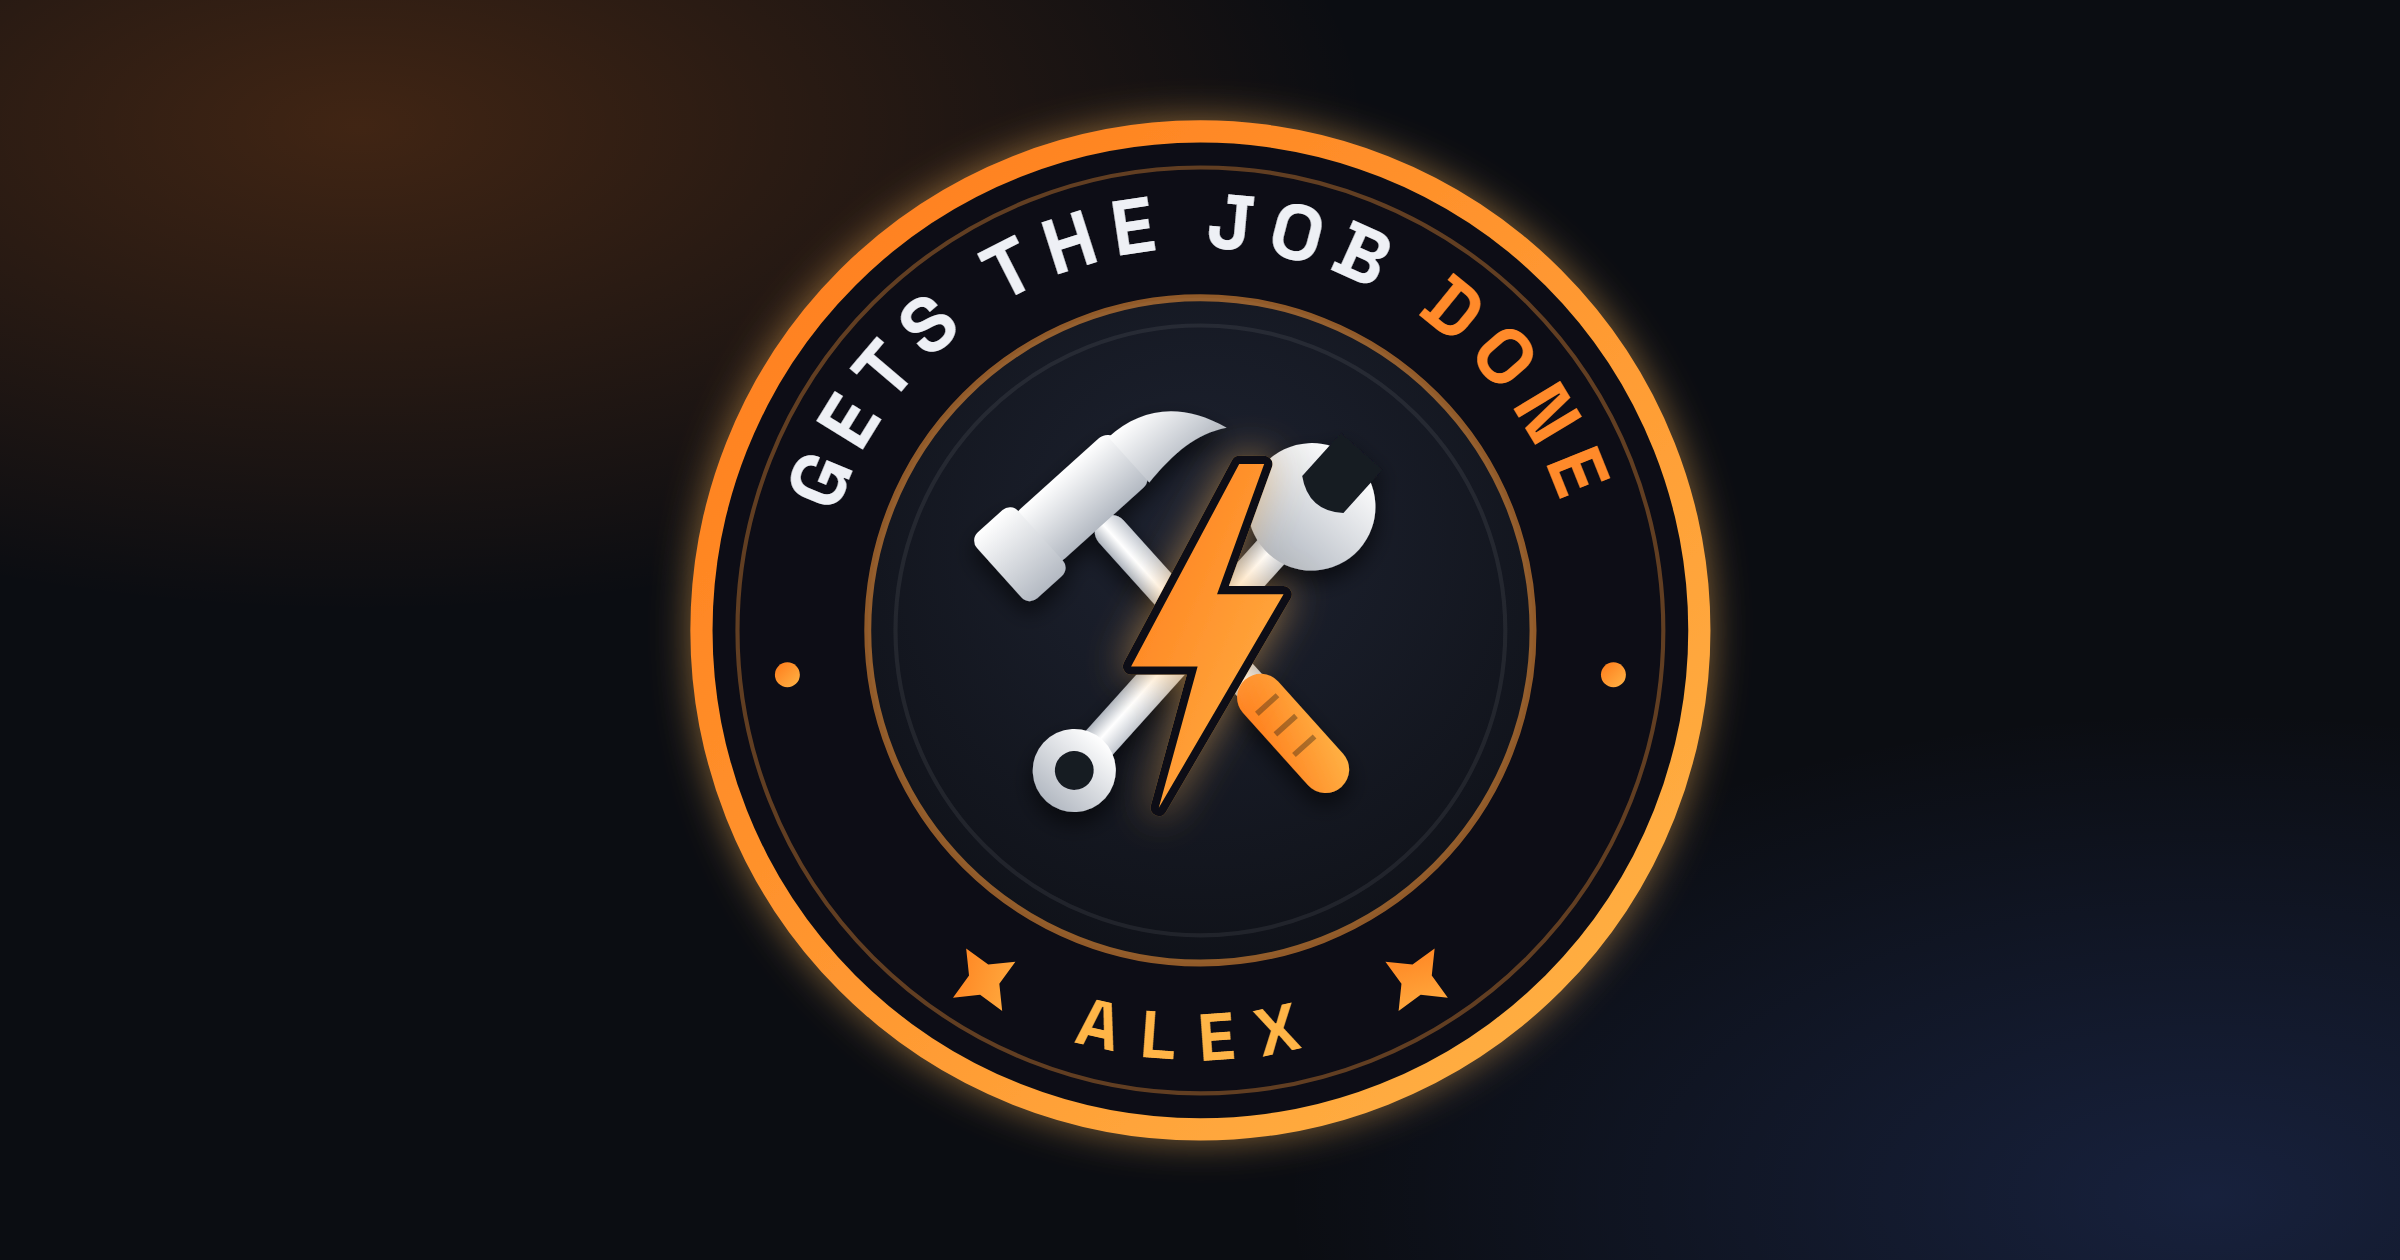
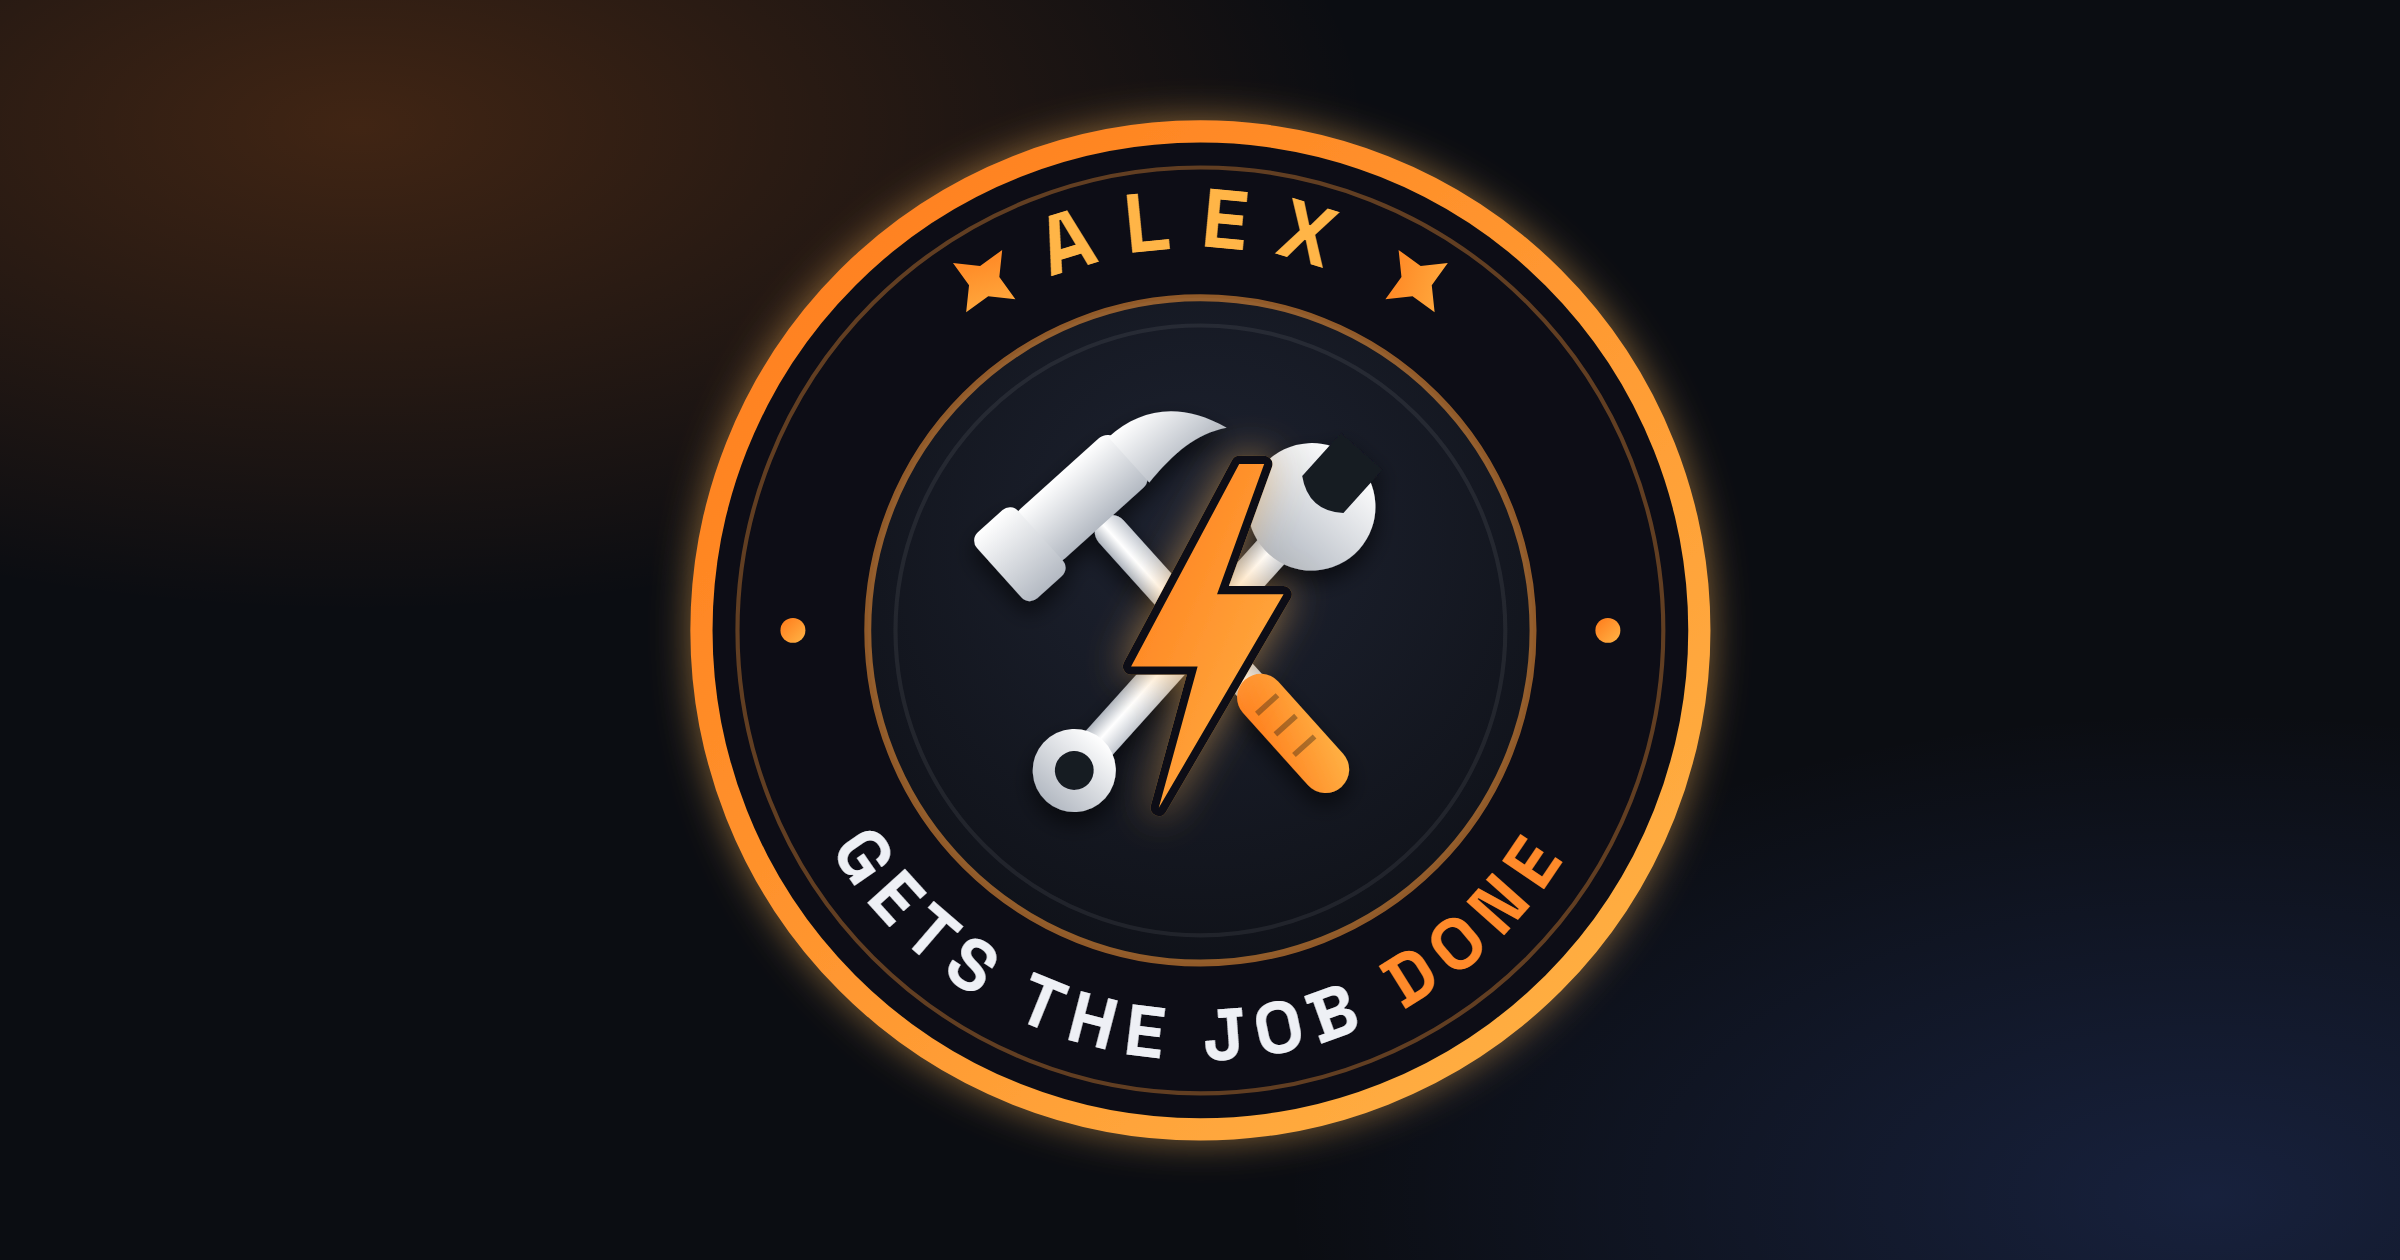
Seal: ALEX on top, Gets the Job Done on the bottom

diff --git a/brand/seal.html b/brand/seal.html
@@ -45,12 +45,12 @@
   <circle cx="200" cy="200" r="110" fill="none" stroke="#ffffff" stroke-opacity="0.07" stroke-width="1.5"/>
 
   <g id="ringText">
-    <text class="sg" font-size="28" letter-spacing="5" fill="#eef0f5"><textPath href="#arcTop" startOffset="50%" text-anchor="middle">GETS THE JOB <tspan fill="#ff8a2a">DONE</tspan></textPath></text>
-    <text class="sg" font-size="24" letter-spacing="9" fill="#ffb547"><textPath href="#arcBot" startOffset="50%" text-anchor="middle">ALEX</textPath></text>
+    <text class="sg" font-size="30" letter-spacing="10" fill="#ffb547"><textPath href="#arcTop" startOffset="50%" text-anchor="middle">ALEX</textPath></text>
+    <text class="sg" font-size="26" letter-spacing="4.5" fill="#eef0f5"><textPath href="#arcBot" startOffset="50%" text-anchor="middle">GETS THE JOB <tspan fill="#ff8a2a">DONE</tspan></textPath></text>
     <g fill="url(#og)">
-      <circle cx="51" cy="216" r="4.5"/><circle cx="349" cy="216" r="4.5"/>
-      <path d="M118 322 l4 -9 l4 9 l9 4 l-9 4 l-4 9 l-4 -9 l-9 -4 Z" transform="rotate(-30 122 326)"/>
-      <path d="M274 322 l4 -9 l4 9 l9 4 l-9 4 l-4 9 l-4 -9 l-9 -4 Z" transform="rotate(30 278 326)"/>
+      <circle cx="53" cy="200" r="4.5"/><circle cx="347" cy="200" r="4.5"/>
+      <path d="M118 70 l4 -9 l4 9 l9 4 l-9 4 l-4 9 l-4 -9 l-9 -4 Z" transform="rotate(30 122 74)"/>
+      <path d="M274 70 l4 -9 l4 9 l9 4 l-9 4 l-4 9 l-4 -9 l-9 -4 Z" transform="rotate(-30 278 74)"/>
     </g>
   </g>
 
